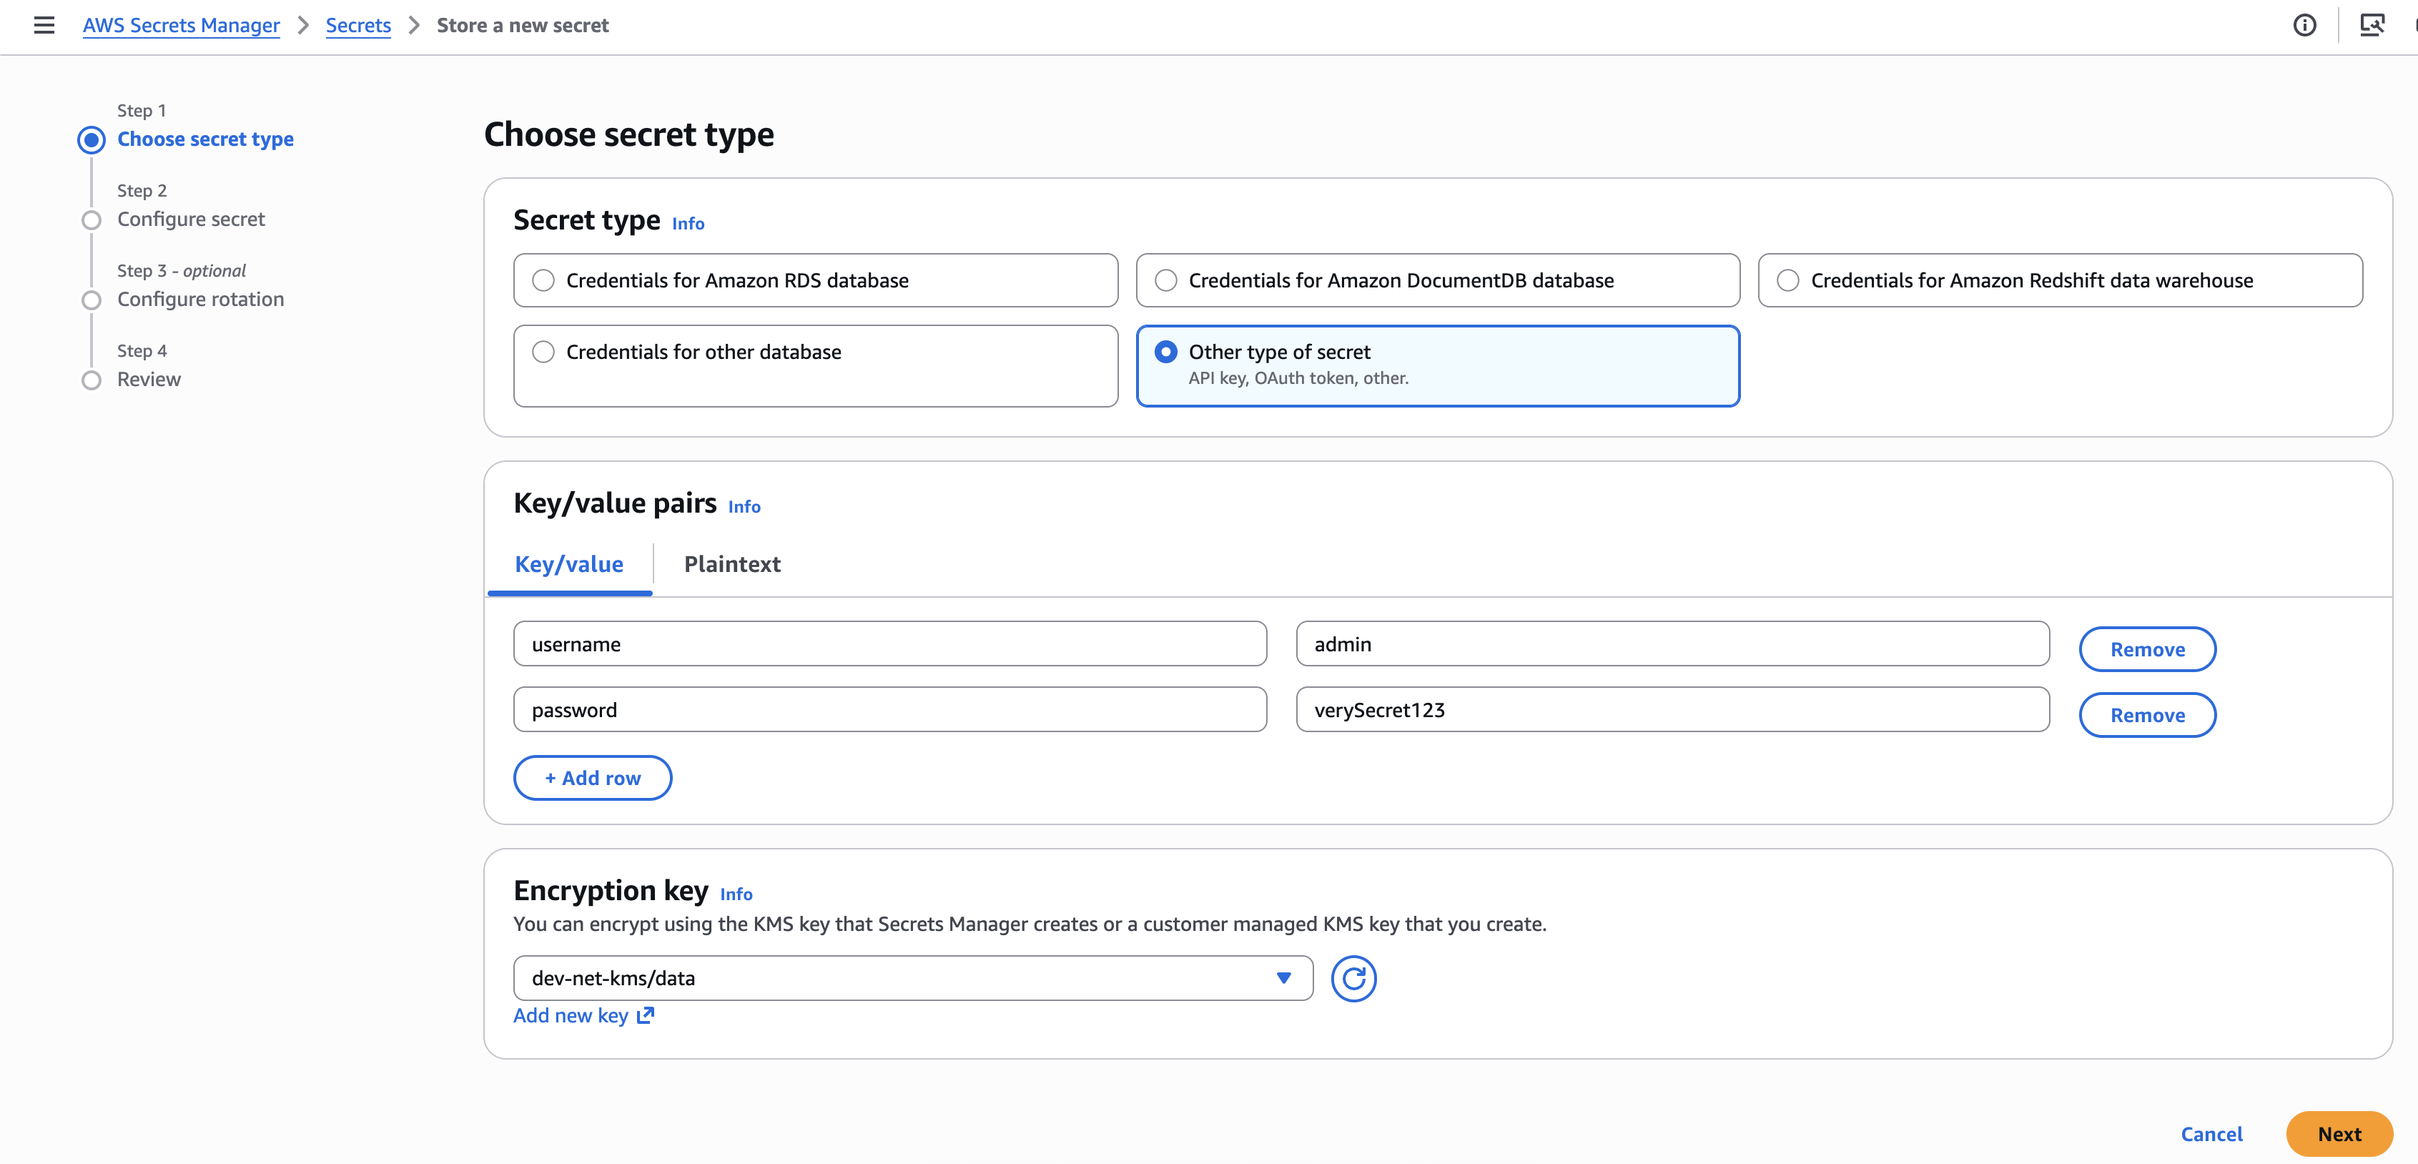
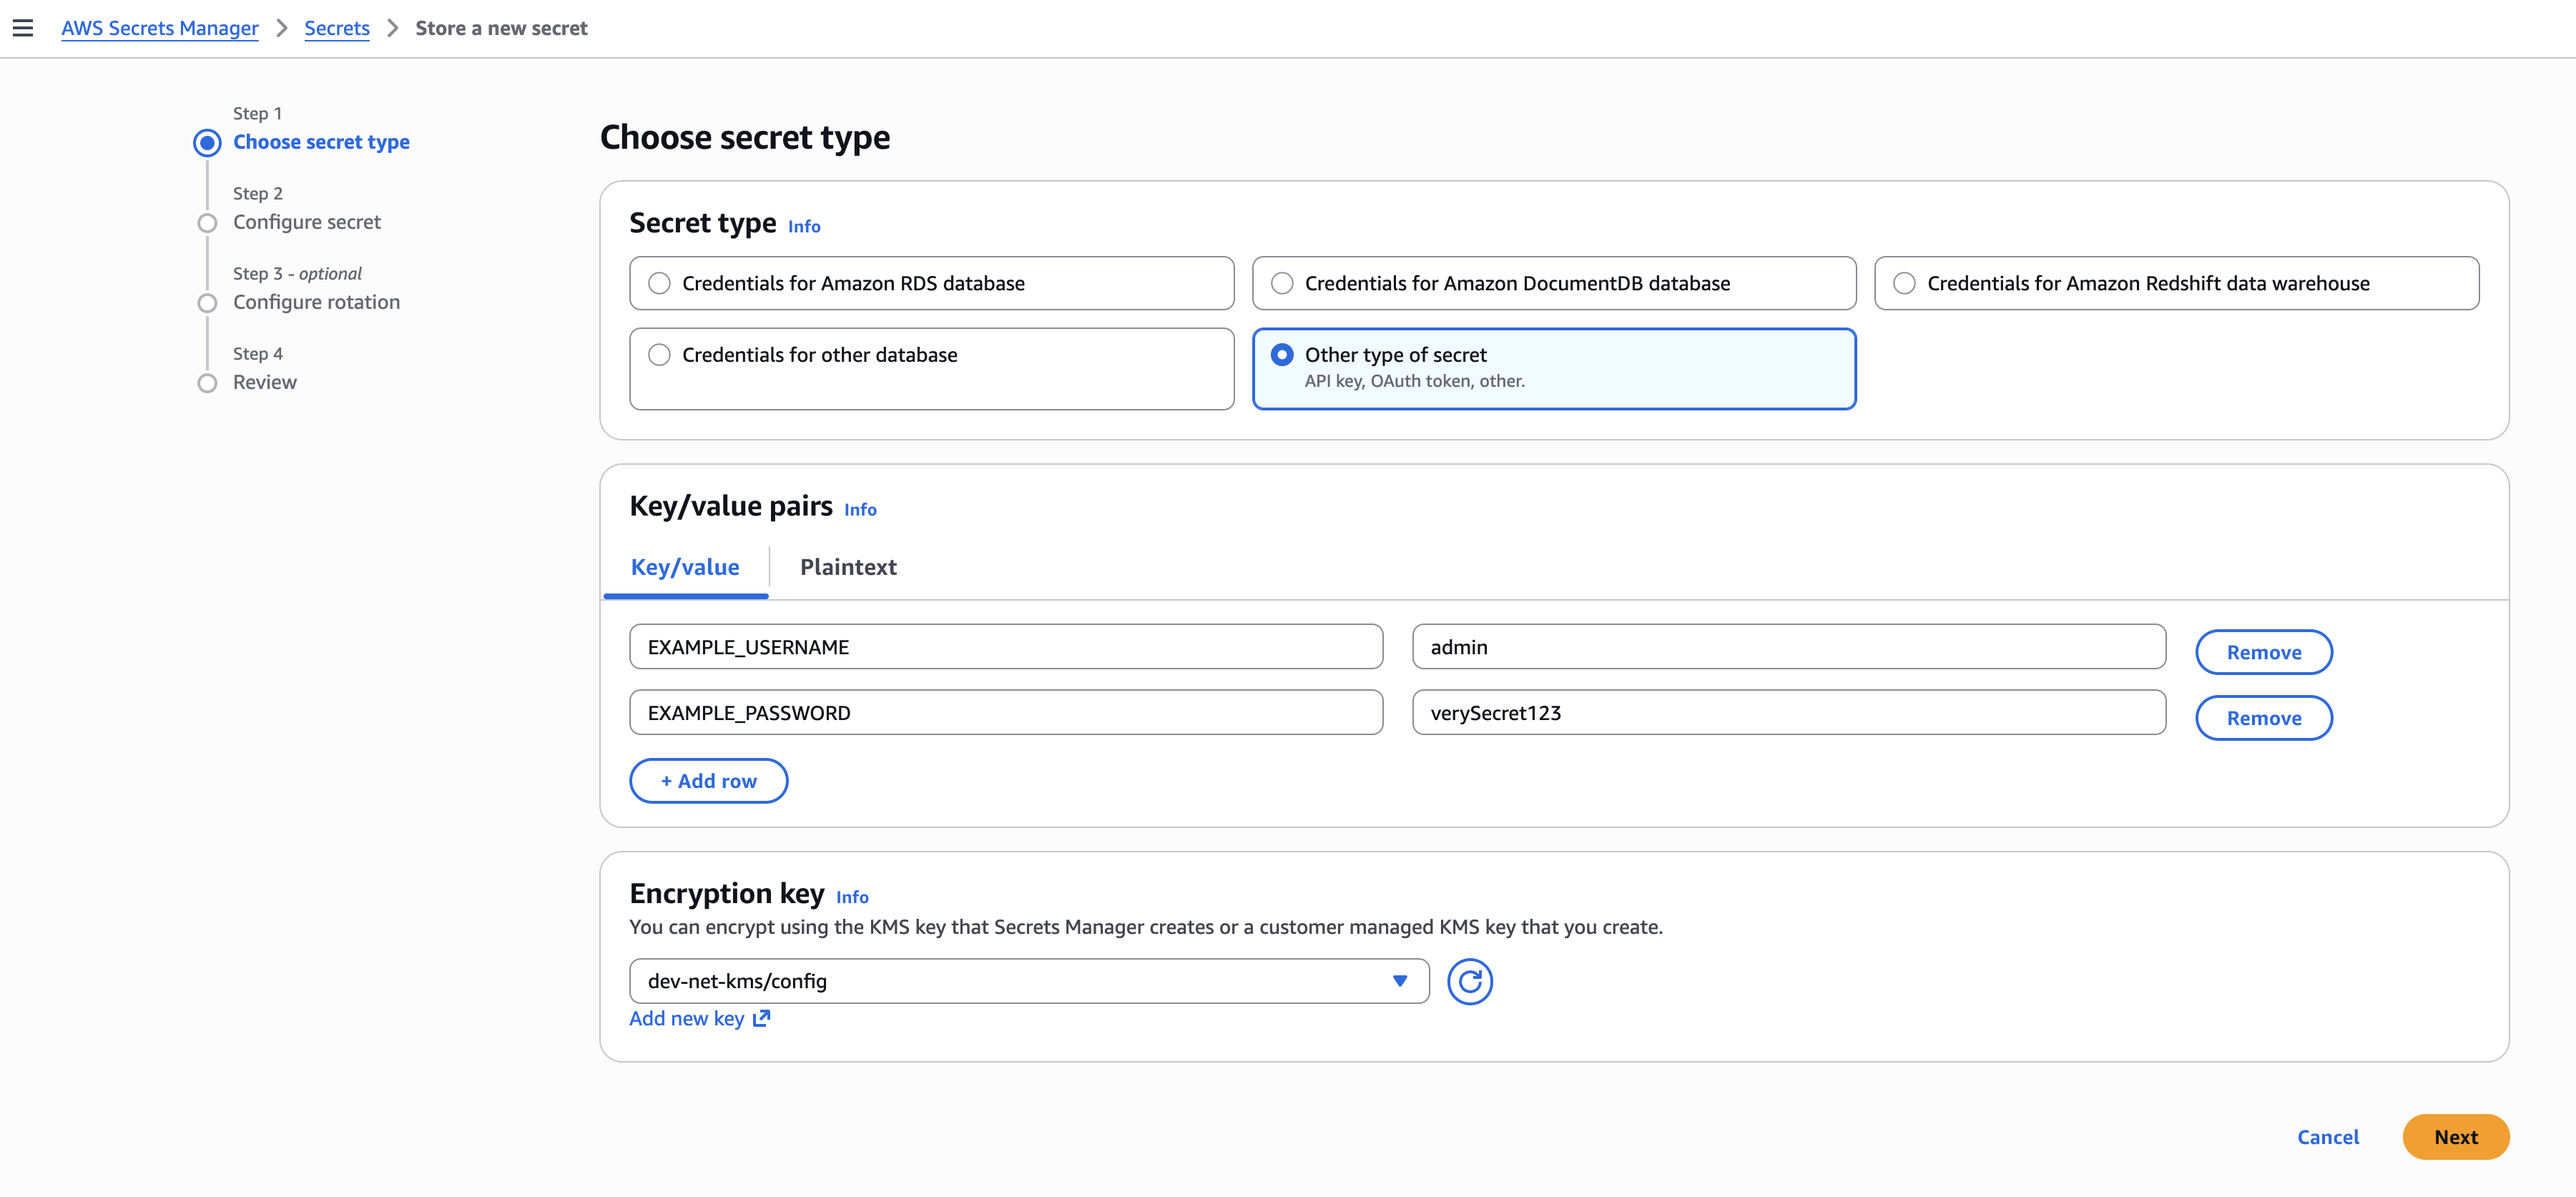
update secret guide

diff --git a/docs/docs/guides/Create a secret.md b/docs/docs/guides/Create a secret.md
@@ -53,8 +53,8 @@ Verify secret exists in AWS Secrets Manager.
 ```bash
 aws secretsmanager create-secret \
  --name example-secret \
- --secret-string '{"username":"admin","password":"verySecret123"}' \
- --kms-key-id alias/dev-net-kms/data
+ --secret-string '{"EXAMPLE_USERNAME":"admin","EXAMPLE_PASSWORD":"verySecret123"}' \
+ --kms-key-id alias/dev-net-kms/config
 ```
 
 ## 2. Access a secret in a Kubernetes cluster with External Secrets
@@ -87,12 +87,12 @@ Kubernetes Secret created by External Secrets in Kubernetes
 ```
 $ kubectl get secret
 NAME             TYPE     DATA   AGE
-example-secret   Opaque   1      10d
+example-secret   Opaque   1      10m
 ```
 
 External Secret and Secret in ArgoCD
 
-TODO: Add picture of ArgoCD showing External Secret and Secret
+![](img/example-secret-4.png)
 
 ## 3. Mount a secret to a container as environment variables
 
@@ -125,4 +125,4 @@ spec:
 
 ## 4. Result
 
-TODO: Add picture of ArgoCD terminal showing env variables in container
+![](img/example-secret-5.png)
